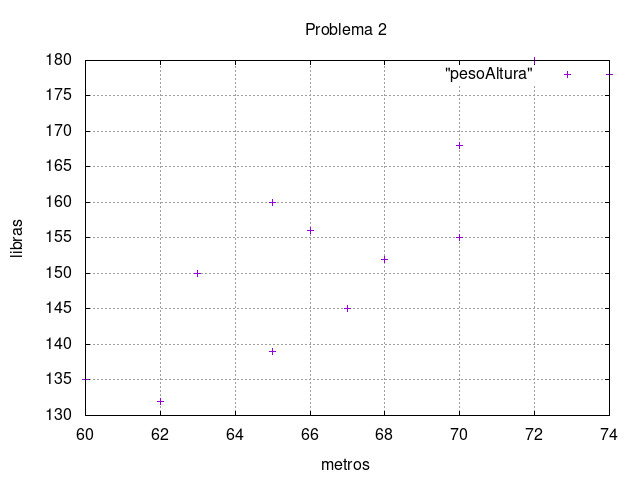
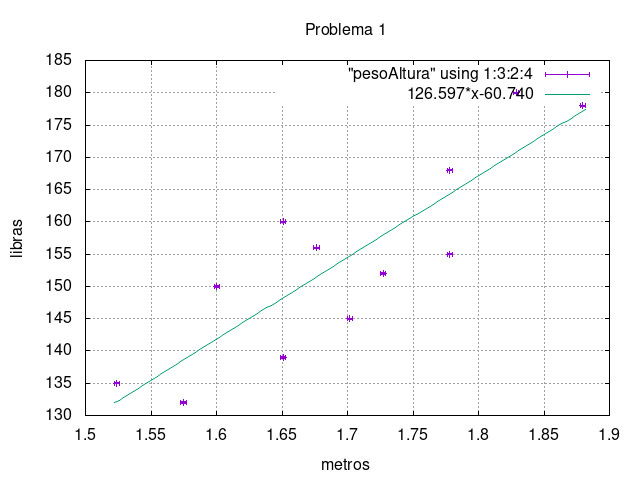
chore: Problema 1 segundo parcial

diff --git a/Segundo_parcial/pesoAltura.c b/Segundo_parcial/pesoAltura.c
@@ -1,0 +1,115 @@
+/*
+Autor:      anaramos
+Compilador: gcc (Ubuntu 9.3.0-17ubuntu1~20.04) 9.3.0 
+Compilado:  gcc -o pesoAltura.out pesoAltura.c -lm
+Fecha:      04/29/22 
+Librerías:  stdio, math
+Resumen:    programa que calcula la recta que mejor aproxima el crecimiento y estima el peso según su altura  
+*/
+//Librerías
+#include <stdio.h>
+#include <math.h>
+
+//declaro e inicializo variables globales
+float altura[]={70,63,72,60,66,70,74,65,62,67,65,68}, peso[]={155,150,180,135,156,168,178,160,132,145,139,152};
+//Obtenemos el número de elementos dividiento el tamaño del vector entre el tamaño de un elemento
+int n = sizeof(altura)/sizeof(altura[0]);
+
+//prototipo de funciones
+void imprimir(float datos[]); // funcion para imprimir los datos
+float estimacion(float altura,float dato1, float dato2); // funcion para estimar el peso en base a la altura
+float propagacionError(float altura, float dato1, float erdato1, float erdato2,float eraltura);//funcion para propagar el error
+float suma(float datos[]); //funcion para sumar los valores de un vector
+float sumaMulti(float datos1[], float datos2[]); //funcion para sumar la multiplicacion de dos vectores
+
+void main(){
+    //declaración de variables para encontrar la recta que mejor aproxima el crecimiento
+    float erorx, errorm, errorb, b, m, r, alturametros[n], estatura, pesoEst, errpesoEst;
+    erorx= 0.002;
+    //ciclo for para cambiar los datos dados en pulgadas a metros
+    for (int i = 0; i < n; i++)
+    {
+        alturametros[i]= altura[i]*0.0254;
+    }
+    //impresion de los valores experimentales de peso
+    puts("Valor de los datos de peso en lb");
+    imprimir(peso);
+    //impresión de los valores experimentales de altura en metros
+    puts("Valor de los datos de estatura en m");
+    imprimir(alturametros);
+
+    //los valores de ecuacion lineal, por medio de minimos cuadrados
+    m = (n*sumaMulti(alturametros,peso)-(suma(alturametros)*suma(peso)))/(n*sumaMulti(alturametros,alturametros)-(suma(alturametros)*suma(alturametros)));
+    errorm= (sqrt(n)*erorx)/(sqrt(n*sumaMulti(alturametros,alturametros)-suma(alturametros)*suma(alturametros)));
+    b = (suma(peso)-m*suma(alturametros))/n;
+    errorb= erorx/sqrt(n);
+    r = (n*sumaMulti(alturametros,peso)-(suma(alturametros)*suma(peso)))/sqrt((n*sumaMulti(alturametros,alturametros)-(suma(alturametros)*suma(alturametros)))*(n*sumaMulti(peso,peso)-(suma(peso)*suma(peso))));
+    //imprime la ecuacion lineal
+    printf("Ecuacion que describe el crecimiento del peso en base a la altura: y= (%.3f+-%.3f)(x+-%.3f) + (%.3f+-%.3f)\n",m,errorm,erorx,b,errorb);
+    //imprime coeificiente de determinacion el r cuadrado
+    printf("Coeficiente de determinacion: %.3f\n",r*r);
+    //Se pide al usuario ingresar una altura
+    printf("\n**Ingrese una altura en (m) para estimar su peso:** ");
+    scanf("%f", &estatura);
+    //condicional para validar que la altura ingresada sea valida
+    if (estatura<=0)
+    {
+        puts("Altura ingresada invalida");
+    }
+    else{
+        pesoEst= estimacion(estatura,m,b);
+        errpesoEst= propagacionError(estatura,m,errorm,errorb,erorx);
+        printf("Su peso estimado es de %.3f+-%.3f lb\n",pesoEst, errpesoEst);
+    }
+    
+}
+
+void imprimir(float datos[]){
+    for (int i = 0; i < n; i++)
+    {
+        //se imprimen los datos para cada iteracion menor a n el tamaño del vector
+        printf("%.1f ",datos[i]);
+    }
+    puts("\n");
+}
+
+float estimacion(float altura, float dato1, float dato2){
+    //declaro variable local
+    float y;
+    //ecuacion que estima el peso en relación a la altura
+    y= dato1*altura+dato2;
+    return y;
+}
+
+float propagacionError(float altura, float dato1, float erdato1, float erdato2,float eraltura){
+    //declaro variable local
+    float errory;
+    //aplico formula de propagacion de errores para multiplicación y suma
+    errory= sqrt((erdato1/dato1)*(erdato1/dato1)+(eraltura/altura)*(eraltura/altura))+erdato2;
+    return errory;
+}
+    
+
+
+//reliza la suma de los elementos de un vector ingresado
+float suma(float datos[]){
+    //declaración e inicialización de variables locales
+    float resp = 0;
+    for (int i = 0; i < n; i++)
+    {
+        //suma cada valor en la posicion i del vector
+        resp += datos[i];
+    }
+    return resp;
+}
+
+//realiza la suma de los elementos de dos vectores ingresados
+float sumaMulti(float datos1[], float datos2[]){
+    float resp = 0;
+    for (int i = 0; i < n; i++)
+    {
+        //suma la multiplicación de cada valor del vector
+        resp += datos1[i]*datos2[i];
+    }
+    return resp;
+}
